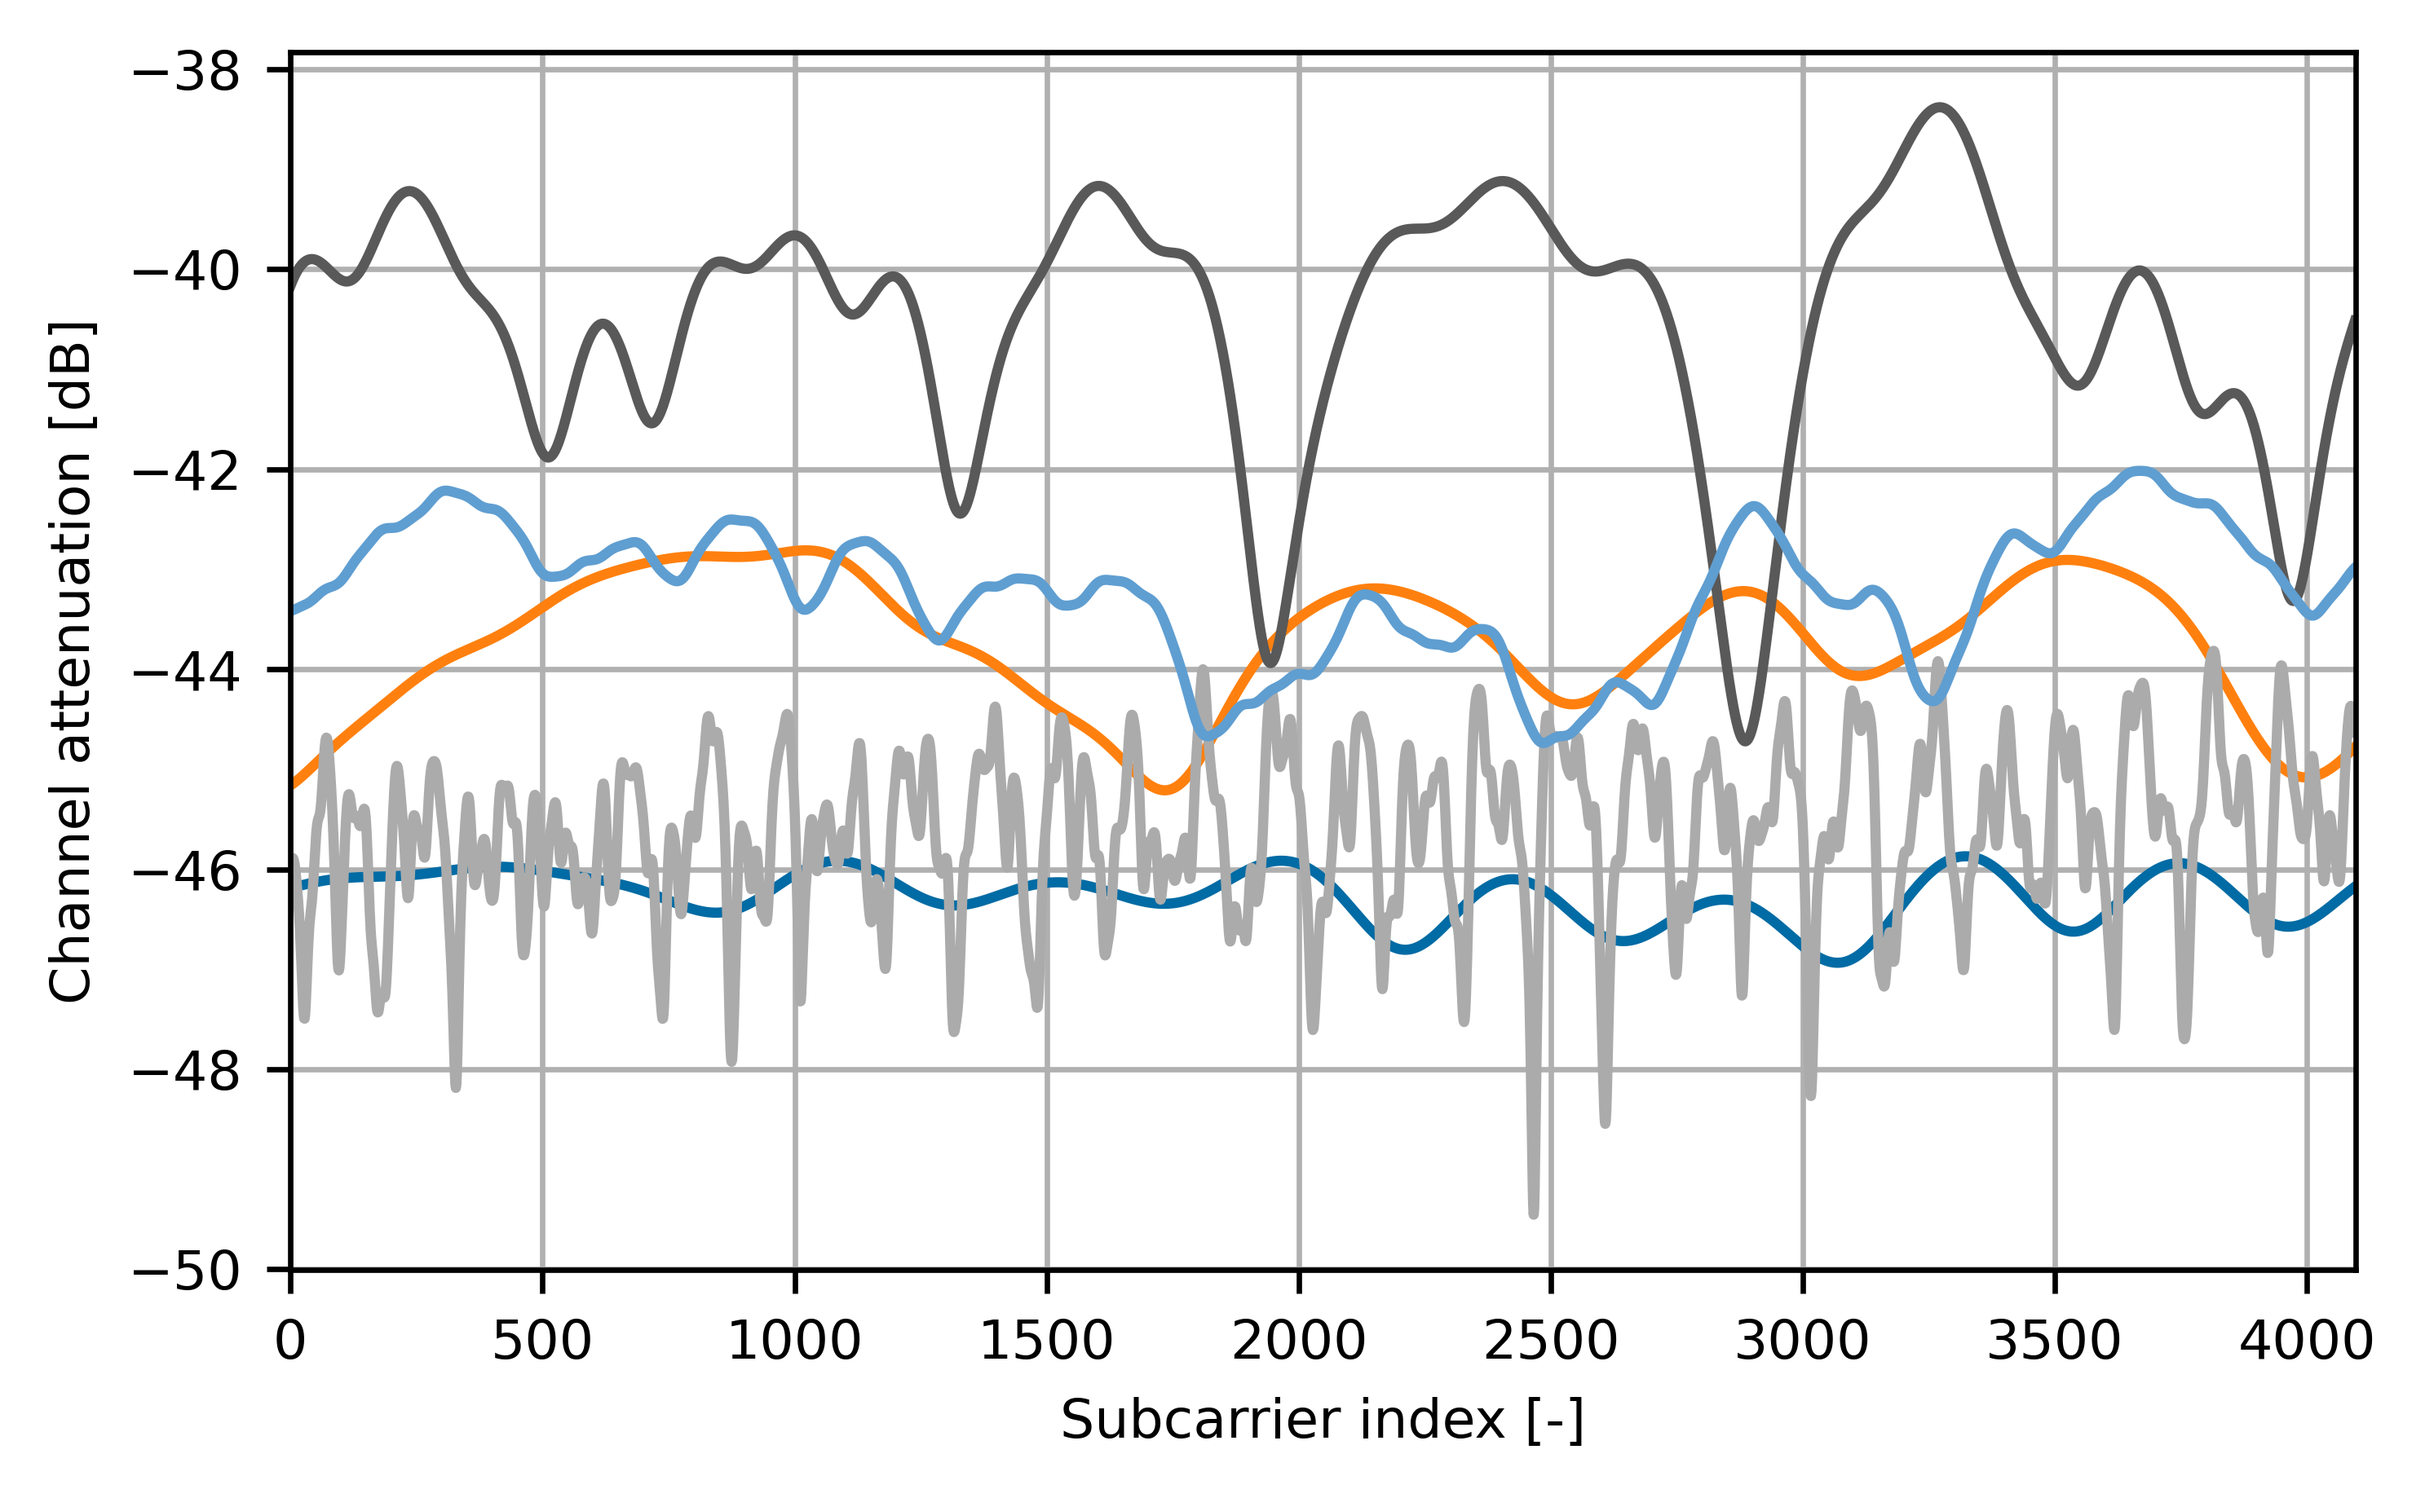
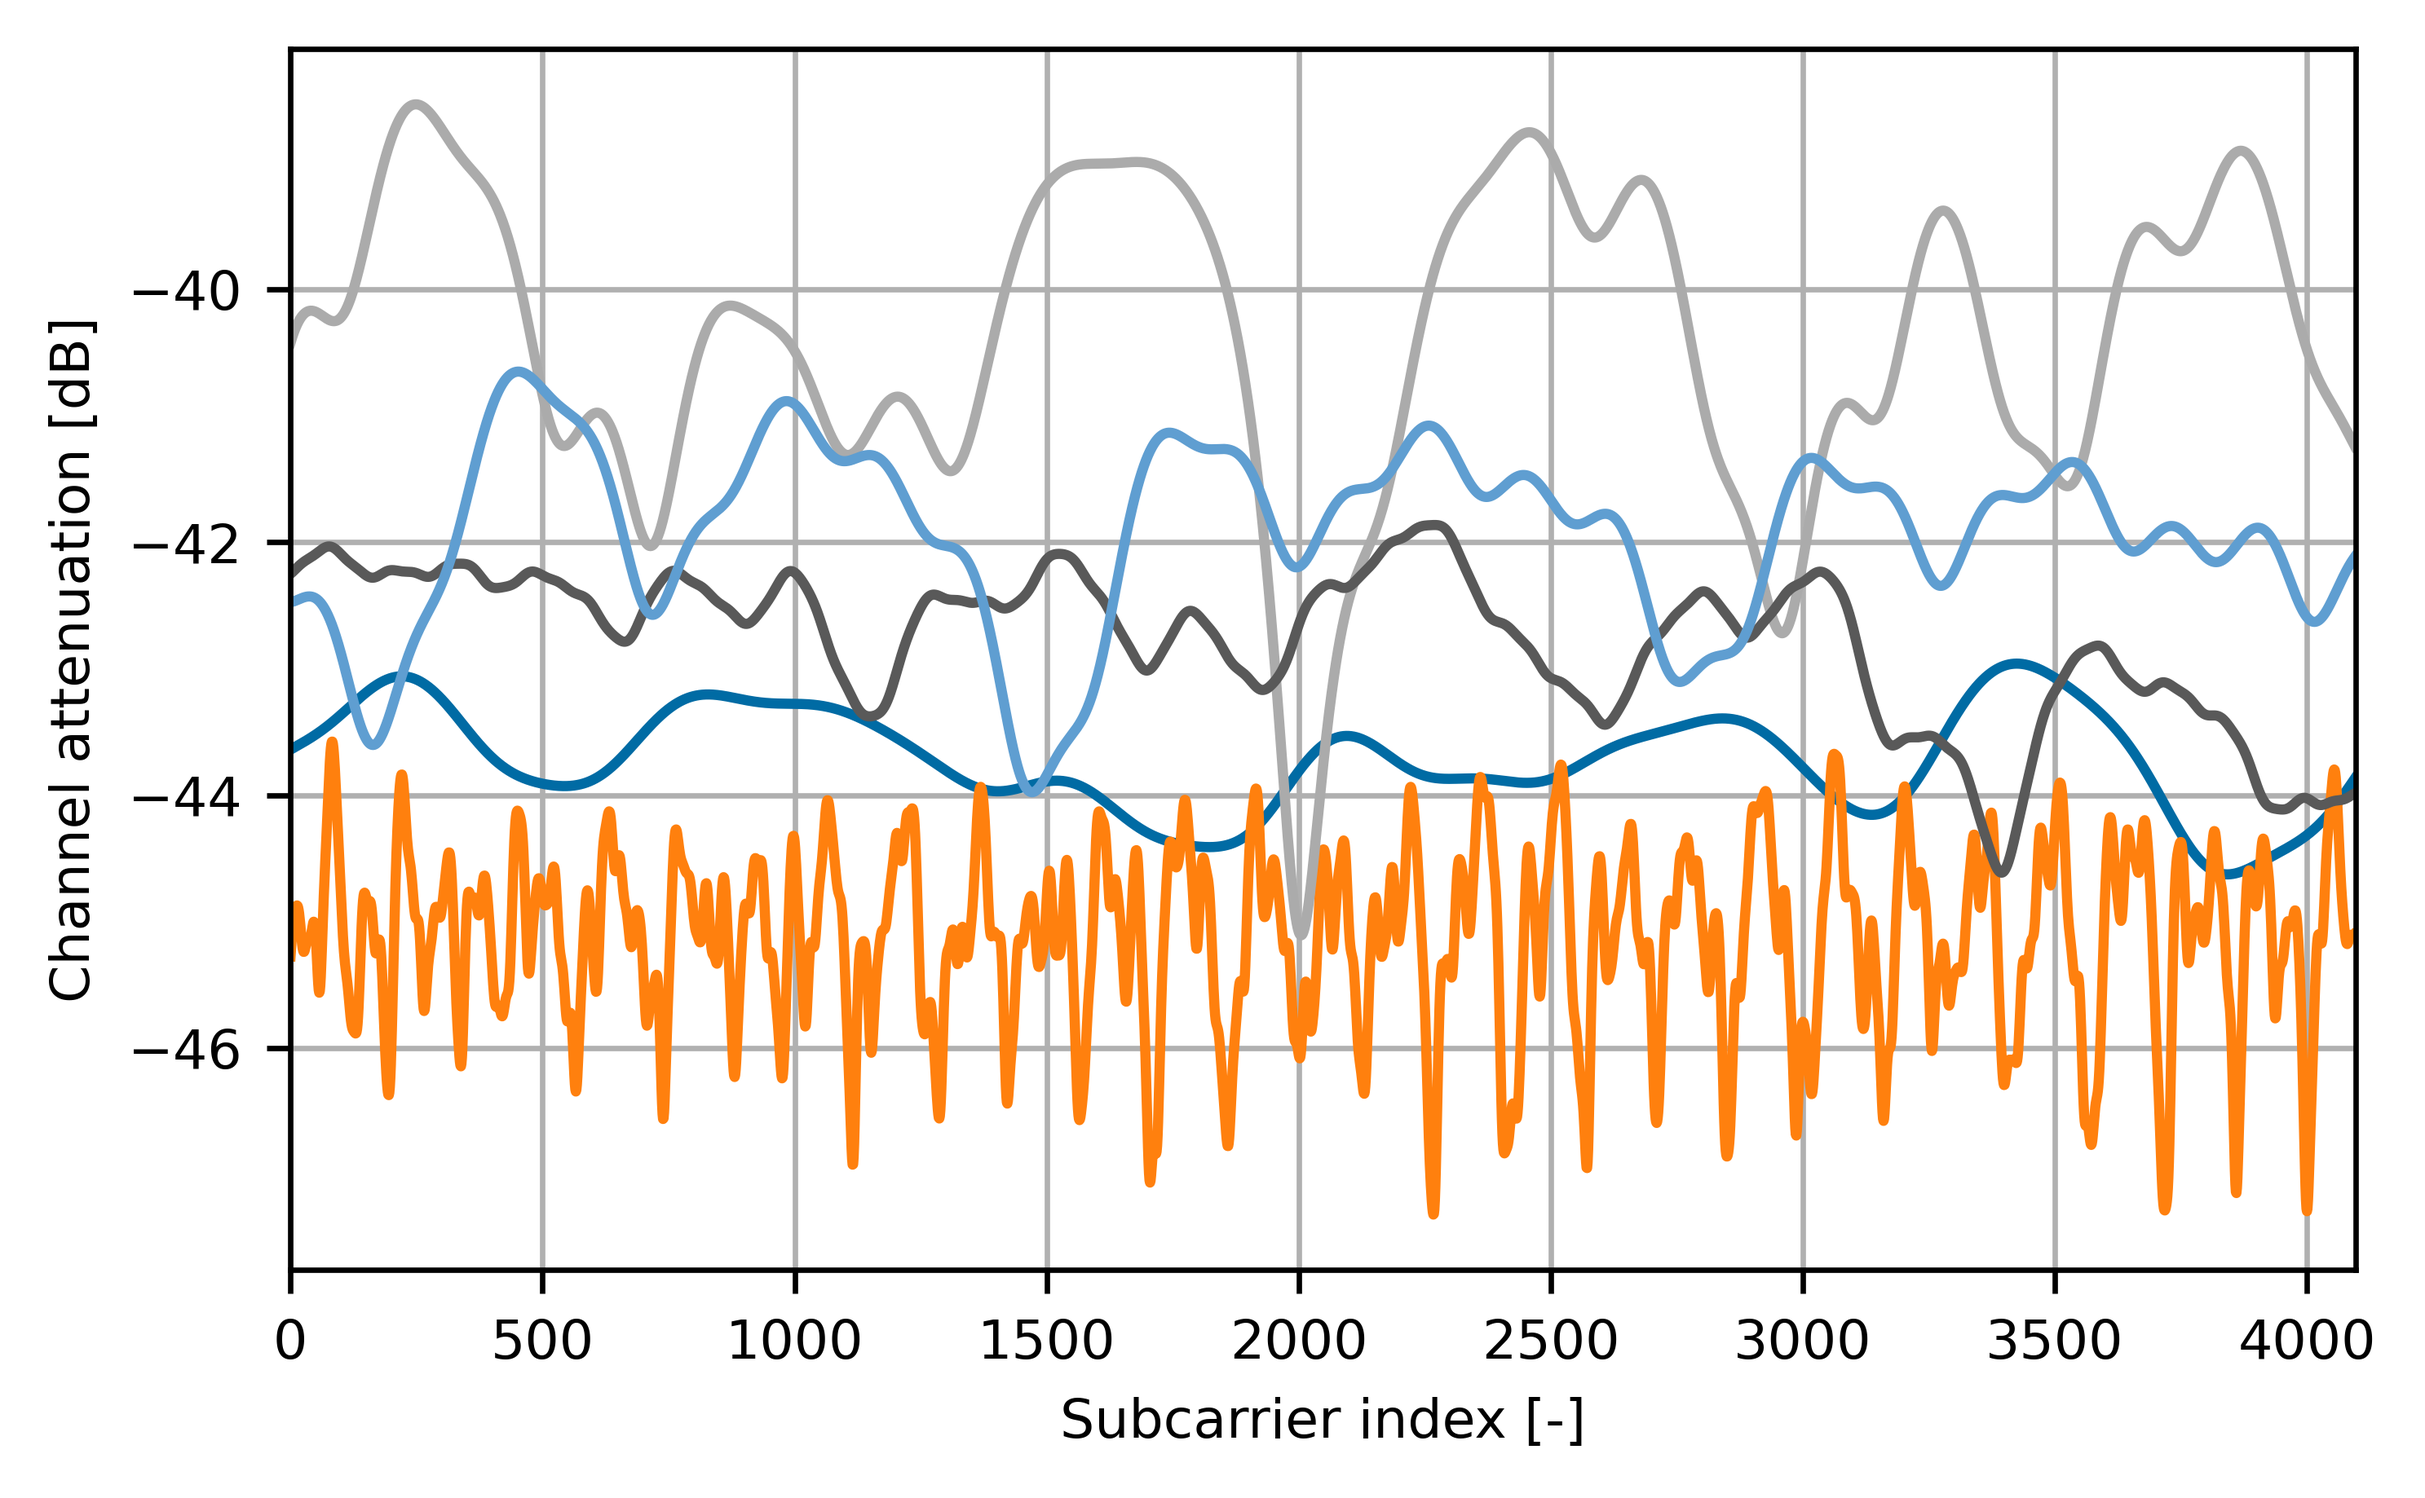
added etailed quadriga results

diff --git a/vm_scripts/vm_runner.py b/vm_scripts/vm_runner.py
@@ -2,22 +2,14 @@
 import os
 import sys
 import time
+import subprocess
 from datetime import datetime
 
 sys.path.append(os.getcwd())
 
 filename_str_lst = [
-    # "main_clipping_noise_cancellation/main_miso_cnc_ber_vs_ebn0_toi.py",
-    # "main_clipping_noise_cancellation/main_miso_mcnc_ber_vs_ebn0_toi.py"
-
-    "main_mp_clipping_noise_cancellation/main_mp_miso_cnc_ber_vs_ebn0.py",
-    "main_mp_clipping_noise_cancellation/main_mp_miso_mcnc_ber_vs_ebn0.py",
-
-    # "main_mp_clipping_noise_cancellation/main_mp_miso_cnc_ber_vs_ebn0.py",
-    # "main_mp_clipping_noise_cancellation/main_mp_miso_cnc_ber_vs_ibo.py",
-    #
-    # "main_mp_clipping_noise_cancellation/main_mp_miso_mcnc_ber_vs_ebn0.py",
-    # "main_mp_clipping_noise_cancellation/main_mp_miso_mcnc_ber_vs_ibo.py"
+    "main_quadriga_channel/main_mp_quadriga_cnc_ber_vs_ebn0.py",
+    "main_quadriga_channel/main_mp_quadriga_mcnc_ber_vs_ebn0.py",
 ]
 
 for idx, filename_str in enumerate(filename_str_lst):
@@ -26,7 +18,7 @@ for idx, filename_str in enumerate(filename_str_lst):
     start_time = time.time()
     print("### Start time: %s ###" % datetime.now().strftime('%Y-%m-%d %H:%M:%S'))
     try:
-        os.system("python3 %s" % filename_str)
+        subprocess.call("python %s" % filename_str, shell=False)
     except:
         print("Runtime error occurred!")
 

diff --git a/utilities.py b/utilities.py
@@ -338,13 +338,13 @@ def to_time_domain(in_sig_mat_fd):
 
 
 def save_to_csv(data_lst, filename):
-    with open("../figs/csv_results/%s.csv" % filename, 'w', newline='') as csv_file:
+    with open("figs/csv_results/%s.csv" % filename, 'w', newline='') as csv_file:
         writer = csv.writer(csv_file)
         writer.writerows(data_lst)
 
 
 def read_from_csv(filename):
-    with open("../figs/csv_results/%s.csv" % filename, 'r', newline='') as csv_file:
+    with open("figs/csv_results/%s.csv" % filename, 'r', newline='') as csv_file:
         reader = csv.reader(csv_file, quoting=csv.QUOTE_NONNUMERIC)
         data_lst = list(reader)
     return data_lst

diff --git a/main_quadriga_channel/quadriga_channel_gen_test.py b/main_quadriga_channel/quadriga_channel_gen_test.py
@@ -12,6 +12,7 @@ from plot_settings import set_latex_plot_style
 set_latex_plot_style(use_tex=False, fig_width_in=5)
 
 meng = matlab.engine.start_matlab()
+meng.addpath(r"C:\Users\rkotrys\Documents\GitHub\mimo-simulation-py\main_quadriga_channel")
 meng.rng(2137)
 
 n_ant = 64
@@ -39,5 +40,5 @@ ax1.set_xlim([0, n_sub_carr])
 
 plt.grid()
 plt.tight_layout()
-plt.savefig("../figs/quadriga_channel.png", dpi=600, bbox_inches='tight')
+plt.savefig("figs/quadriga_channel.png", dpi=600, bbox_inches='tight')
 plt.show()

diff --git a/channel.py b/channel.py
@@ -265,6 +265,8 @@ class MisoQuadrigaFd:
 
         if start_matlab_eng:
             self.meng = matlab.engine.start_matlab()
+            self.meng.addpath(r"C:\Users\rkotrys\Documents\GitHub\mimo-simulation-py\main_quadriga_channel")
+
             self.meng.rng(5)
 
             self.meng.qd_channel_env_setup(self.meng.double(self.n_ant_val), self.meng.double(self.n_fft),

diff --git a/main_quadriga_channel/main_mp_quadriga_cnc_ber_vs_ebn0.py b/main_quadriga_channel/main_mp_quadriga_cnc_ber_vs_ebn0.py
@@ -29,7 +29,7 @@ import mp_model
 if __name__ == '__main__':
 
     set_latex_plot_style()
-    num_cores = mp.cpu_count() // 2
+    num_cores = 8 # mp.cpu_count() // 2
 
     # parameters
     n_ant_arr = [64]

diff --git a/main_quadriga_channel/main_mp_quadriga_mcnc_ber_vs_ebn0.py b/main_quadriga_channel/main_mp_quadriga_mcnc_ber_vs_ebn0.py
@@ -29,7 +29,7 @@ import mp_model
 if __name__ == '__main__':
 
     set_latex_plot_style()
-    num_cores = mp.cpu_count() // 2
+    num_cores = 8 # mp.cpu_count() // 2
 
     # parameters
     n_ant_arr = [64]
